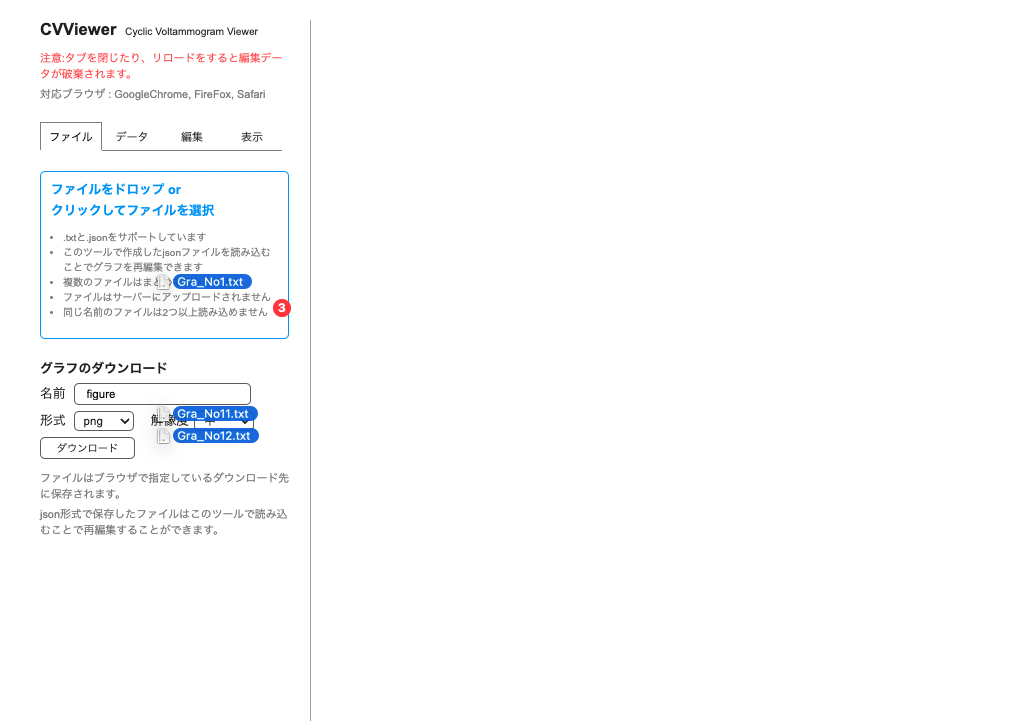
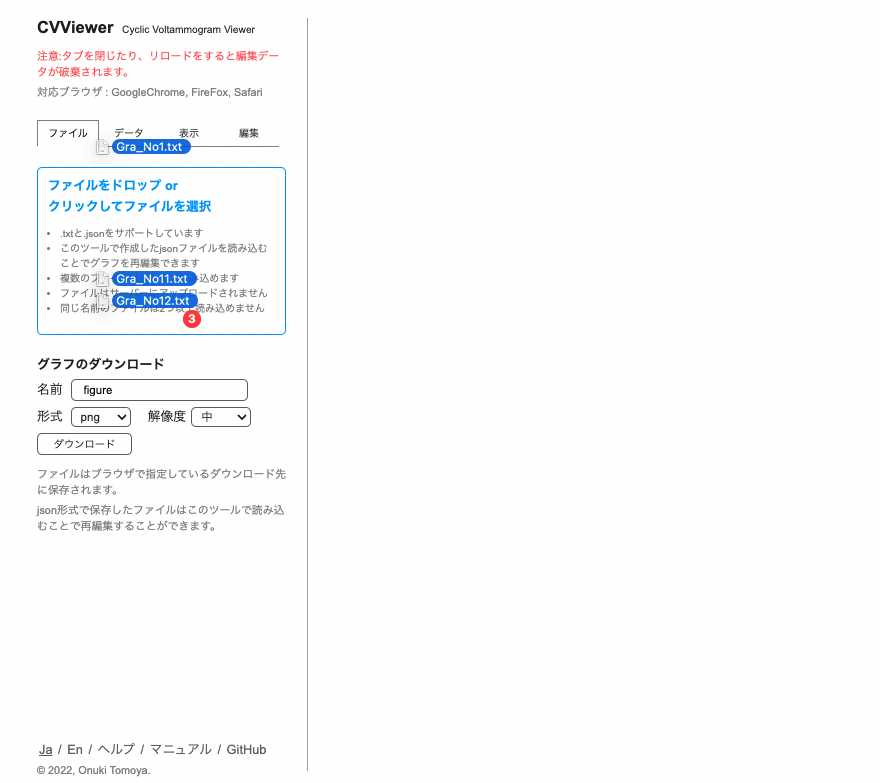
update readme

Changed region(s): [[0.0307, 0.0305, 0.3375, 0.7628], [0.0307, 0.9459, 0.1841, 1.0], [0.1841, 0.9459, 0.3068, 0.9764]]

diff --git a/README.md b/README.md
@@ -41,12 +41,12 @@
 <br><br>
 
 ### 3. データセットの確認とグラフの編集
-1. 「編集タブ」上で、平均化したデータセットを確認します。
+1. 「表示タブ」上で、平均化したデータセットを確認します。
 2. このデータセットのラベルは1-3で指定したものと対応しています。指定しなかった場合は自動で名前がついています。テキストをクリックして編集できます。
 3. テキストの左隣の黒い四角をクリックすると、グラフの色を設定できます
 4. ▼ボタンを押すと、含まれているデータを確認できます
-5. タイトルと各軸のラベルを設定します
-6. 各軸の範囲を指定します
+4. 線の太さや、自動配色機能による色付けなどを行います。
+5. ピーク値やグリッドを必要に応じて表示/非表示します。
 
    <img src="./img/03.png" width="60%"> 
 
@@ -55,10 +55,14 @@
 <br><br>
 
 ### 4. グラフのデザイン
-1. 「表示タブ」で行います
-2. 線のタイプを選びます。
-3. ピーク値やグリッド、凡例を必要に応じて表示/非表示します。
-
+1. 「編集タブ」で行います
+2. タイトルと各軸のラベルを設定します
+3. グラフ上のテキストをクリックし、スタイル（フォント、サイズなど）を設定します
+4. グラフ上のテキストをクリックし、レイアウトボタンやマウス・キーボード操作によって位置を調整します
+5. 各軸の範囲を指定します。固有の単位あるいはパーセンテージによる調整ができます
+6. 目盛りの指数表示形式や、有効数字を設定します
+7. 目盛りの幅を設定します
+  
    <img src="./img/04.png" width="60%">
 
 <br><br>
@@ -96,8 +100,12 @@
 <br><br><br>
 
 ## リリースノート
-- ver2.0 (2022/ 8/16) 
+- ver3.0 (2022/ 8/18) 
+  - テキストのスタイルを編集できる
+  - ラベルを移動できる
+- ver2.1 (2022/ 8/16) 
   - ショートカットをつかえる
+- ver2.0 (2022/ 8/16) 
   - 軸の指数表記と有効数字を設定できる
   - JSONファイルでの書き出したファイルを読み込むことで再編集できる
   - グラフの周囲の囲みを表示できる
